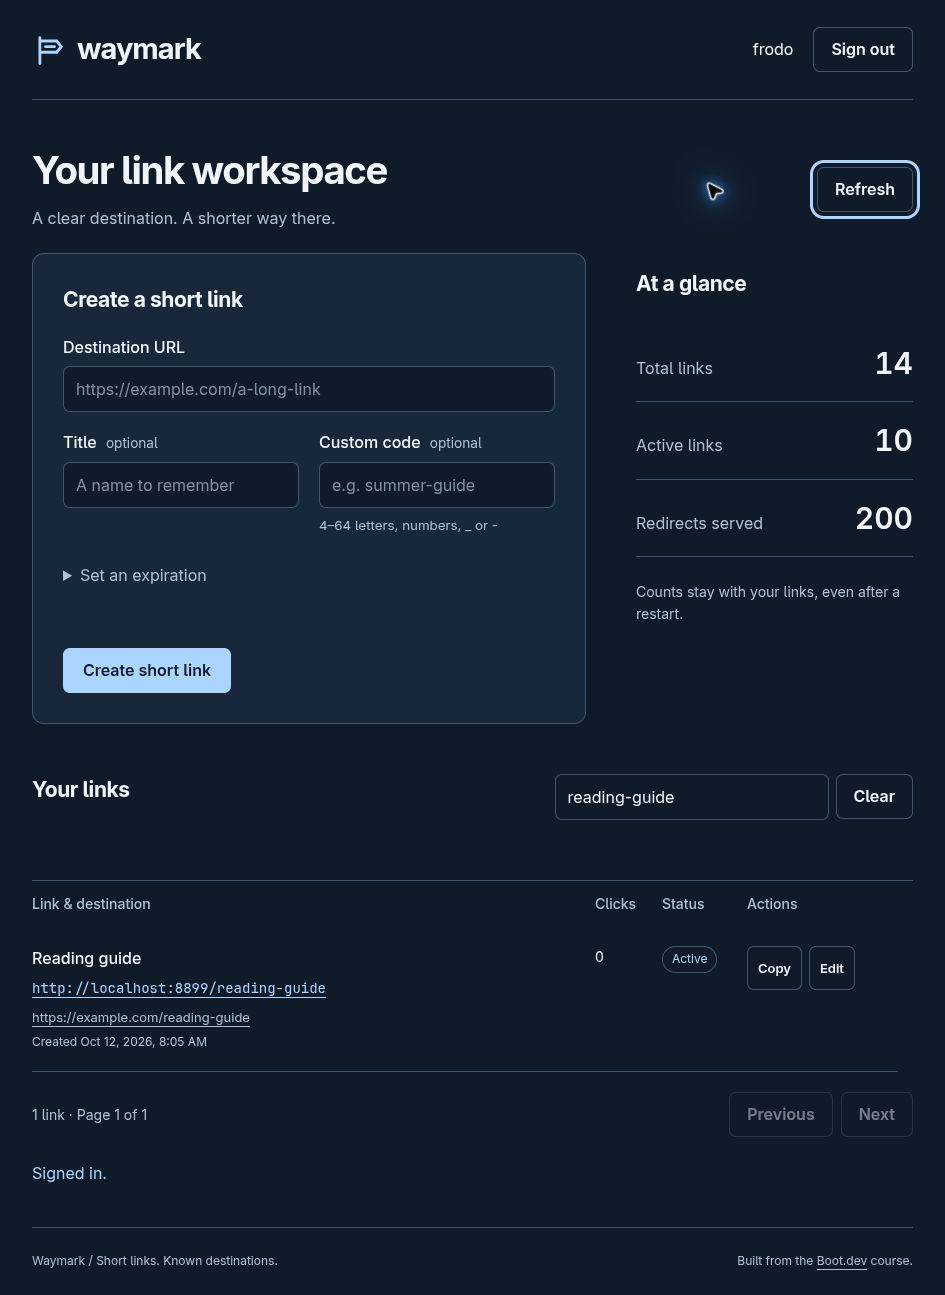
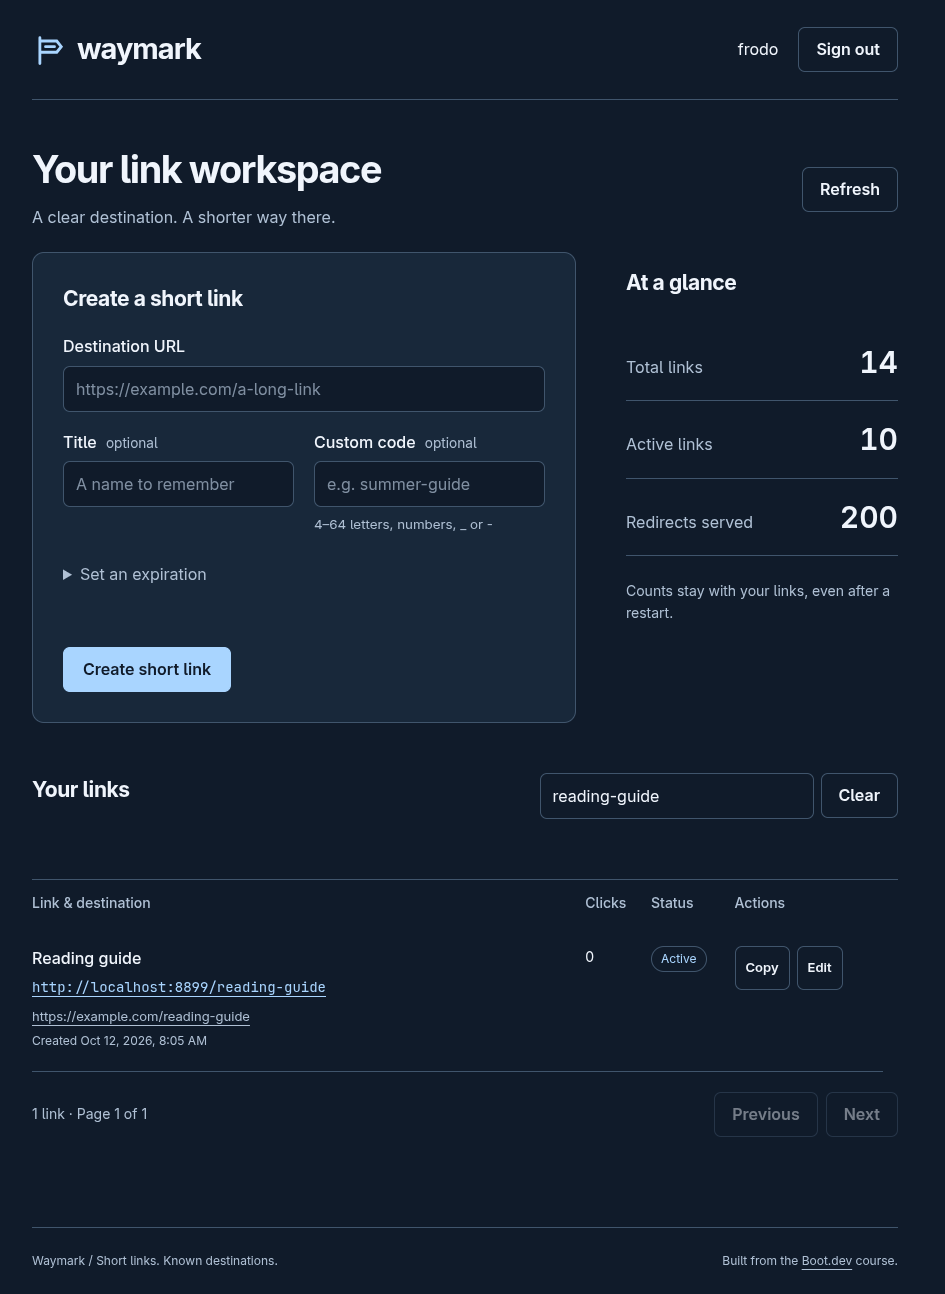
Refresh the cover artwork and capture a cursor-free workspace preview

diff --git a/readme-assets/STYLE.md b/readme-assets/STYLE.md
@@ -1,6 +1,6 @@
 # Waymark artwork
 
-The cover, favicon and masthead share a route-marker motif. It represents an address that points to a destination; the diagram in the cover is illustrative, not a measured performance chart.
+The cover, favicon and masthead share a route-marker motif. The cover places it over an ink-blue landscape with luminous signal paths, connecting destinations to request tracing. It is illustrative artwork, not a measured performance chart.
 
 | Role | Value |
 | --- | --- |
@@ -13,4 +13,4 @@ The cover, favicon and masthead share a route-marker motif. It represents an add
 
 Runtime values belong to `web/app.css`; DESIGN.md records the mapping. README icons use the original geometry from the workspace `readme-style/icons.json`, with 1.6-unit rounded strokes on a 24-unit grid. H2 icons render at 24 px with empty alt text and a visible section label. Dark backing preserves their appearance on light and dark GitHub themes.
 
-`cover.svg` is local vector artwork with a 1200 × 400 viewBox. `workspace.png` is a capture of the running browser interface with example links. Do not describe artwork as a screenshot or sample data as customer usage.
+`cover.png` is landscape artwork with the Waymark name, at 2172 × 724 pixels. `workspace.png` is a 945 × 1294 capture of the running browser interface with example links, taken directly from the page compositor without a cursor overlay. Do not describe artwork as a screenshot or sample data as customer usage.

diff --git a/README.md b/README.md
@@ -1,4 +1,4 @@
-![Waymark — a route marker pointing a short link toward its destination](readme-assets/cover.svg)
+![Waymark — a route marker above an ink-blue landscape crossed by luminous signal paths](readme-assets/cover.png)
 
 # Waymark — Private link workspace
 
